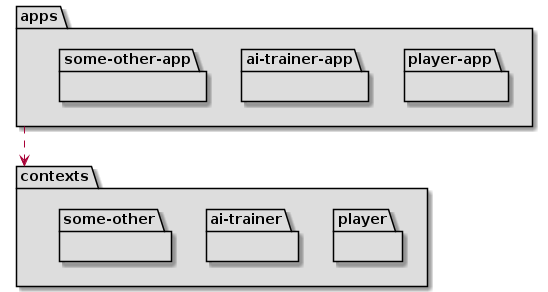
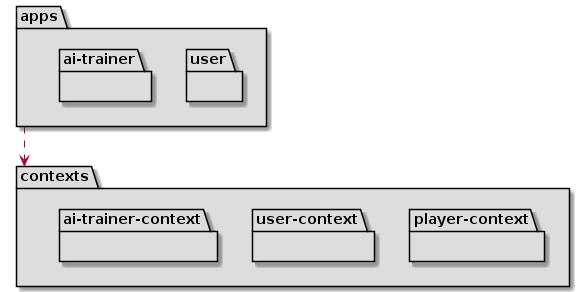
new diagrams + update readme

diff --git a/docs/README.md b/docs/README.md
@@ -4,18 +4,42 @@
   - [Player Context](#game-context)
   - [AITrainer Context](#ai-training-context)
   - [Specification](#specification)
-    - [Start](#start-use-case-specification)
-    - [EditConfig](#editconfig-use-case-specification)
+    - [Player](#player-use-cases)
+      - [Launch](#launch-use-case-specification)
+      - [Load](#load-use-case-specification)
+      - [Move](#move-use-case-specification)
+      - [Undo](#undo-use-case-specification)
+      - [Redo](#redo-use-case-specification)
+      - [Exit](#exit-use-case-specification)
+      - [SaveGame](#savegame-use-case-specification)
+    - [User](#user-use-cases)
+      - [Start](#start-use-case-specification)
+    - [AITrainer](#aitrainer-use-cases)
+      - [ShowCurrentConfig](#showcurrentconfig-use-case-specification)
+      - [EditConfig](#editconfig-use-case-specification)
+      - [SaveConfig](#saveconfig-use-case-specification)
+- [UI Prototype](#player-ui-prototype)
+  - [User](#player-ui-prototype)
+  - [AI Trainer](#aitrainer-ui-prototype)
+
 - [Analysis](#analysis)
   - [Packages](#packages-mvc)
-  - [Start Collaboration](#start-colaboration)
+  - [Collaboration](#collaboration-diagrams)
+    - [Player](#player-use-cases-collaboration)
+      - [Launch](#launch-colaboration)
+      - [Move](#move-colaboration)
+    - [User](#user-use-cases-collaboration)
+      - [Start Collaboration](#start-colaboration)
+    - [AiTrainer](#aitrainer-use-cases-collaboration)
+      - [ShowCurrentConfig](#showcurrentconfig-colaboration)
+      - [EditConfig](#editconfig-colaboration)
   - [Hexagonal Architecture](#hexagonal-architecture)
-- [UI Prototype](#player-ui-prototype)
-  - [Player](#player-ui-prototype)
-  - [AI Trainer](#aitrainer-ui-prototype)
+
+
 
 ## Use cases
 ![Actors and Use Cases](output/use-cases/UseCases.png)
+
 
 ### User Context
 ![User context](output/use-cases/context/UserContextDiagram.png)
@@ -23,16 +47,40 @@
 
 ![AI Trainer Context](output/use-cases/context/AITrainingContextDiagram.png)
 
-## Launch use case specification
-![Lauch Specification](output/use-cases/specification/LaunchUseCaseSpecification.png)
-## Start use case specification
-![Start Specification](output/use-cases/specification/StartUseCaseSpecification.png)
-## EditConfig use case specification
-![EditConfig Specification](output/use-cases/specification/EditConfigUseCaseSpecification.png)
-## Move use case specification
+## Player Use Cases
+### Launch use case specification
+![Launch Specification](output/use-cases/specification/LaunchUseCaseSpecification.png)
+
+### Load use case specification
+![Load Specification](output/use-cases/specification/LoadUseCaseSpecification.png)
+
+### Move use case specification
 ![Move Specification](output/use-cases/specification/MoveUseCaseSpecification.png)
-## Save use case specification
-![PlayerMove Specification](output/use-cases/specification/SaveConfigUseCaseSpecification.png)
+
+### Undo use case specification
+![Undo Specification](output/use-cases/specification/UndoUseCaseSpecification.png)
+### Redo use case specification
+![Redo Specification](output/use-cases/specification/RedoUseCaseSpecification.png)
+### Exit use case specification
+![Exit Specification](output/use-cases/specification/ExitUseCaseSpecification.png)
+### SaveGame use case specification
+![SaveGame Specification](output/use-cases/specification/SaveGameUseCaseSpecification.png)
+
+
+## User Use Cases
+
+### Start use case specification
+![Start Specification](output/use-cases/specification/StartUseCaseSpecification.png)
+
+
+## AITrainer Use Cases
+
+### ShowCurrentConfig use case specification
+![ShowCurrentConfig Specification](output/use-cases/specification/ShowCurrentConfigUseCaseSpecification.png)
+### EditConfig use case specification
+![EditConfig Specification](output/use-cases/specification/EditConfigUseCaseSpecification.png)
+### SaveConfig use case specification
+![SaveConfig Specification](output/use-cases/specification/SaveConfigUseCaseSpecification.png)
 
 ## UI Prototype
 ### Player UI Prototype
@@ -218,8 +266,31 @@ Option? [1-2]: 1
 ### Packages
 ![packages-mvc](output/analysis/Packages.png)
 
+## Collaboration Diagrams
+
+## Player Use Cases collaboration
+
+### Launch Collaboration
+![launch-colab](output/analysis/use-cases/LaunchCollaborationDiagram.png)
+### Move Collaboration
+![move-colab](output/analysis/use-cases/MoveCollaborationDiagram.png)
+
+
+## User Use Cases collaboration
 ### Start Colaboration
 ![start-colab](output/analysis/use-cases/StartCollaborationDiagram.png)
+
+
+## AITrainer Use Cases collaboration
+
+### ShowCurrentConfig Collaboration
+![show-current-config-colab](output/analysis/use-cases/ShowCurrentConfigCollaborationDiagram.png)
+### EditConfig Collaboration
+![edit-config-colab](output/analysis/use-cases/EditConfigCollaborationDiagram.png)
+
+
+
+
 ### Hexagonal Architecture
 ![packages-hex](output/analysis/ArchitecturePackages.png)
 ![hex-arch](output/analysis/ArchHexPackage.png)
